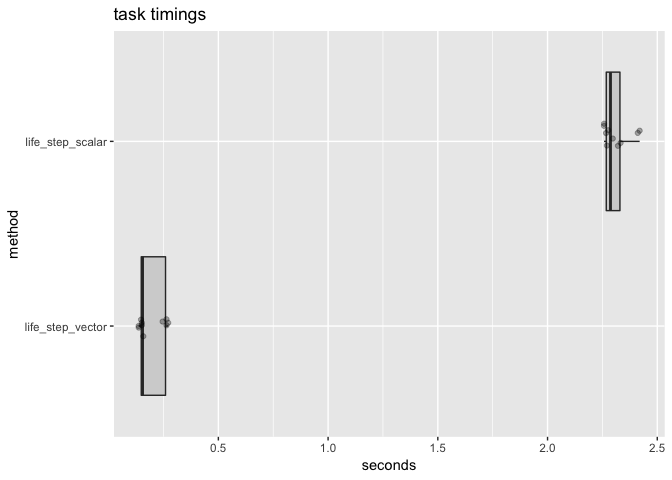
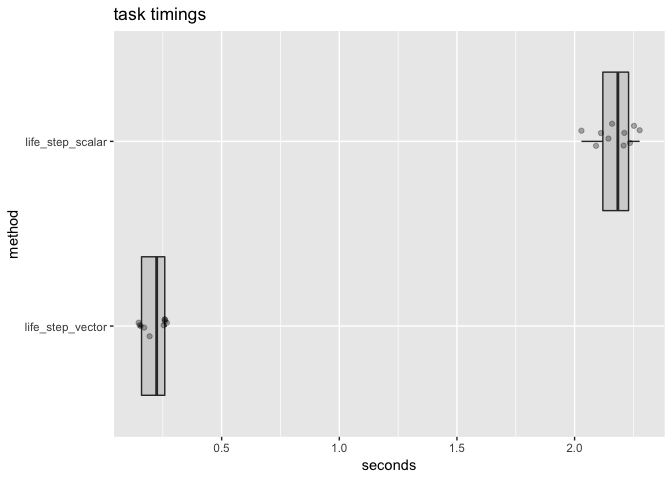
re-run

diff --git a/extras/ConwayLife/Timing.md b/extras/ConwayLife/Timing.md
@@ -37,7 +37,7 @@ life_step_scalar <- function(d) {
           pop <- pop + d[i+1, j+1]
         }
       }
-      dnext[i,j] <- (pop==3) || (d[i,j] & (pop>=2) & (pop<=3))
+      dnext[i,j] <- (pop==3) || (d[i,j] && (pop>=2) && (pop<=3))
     }
   }
   dnext
@@ -69,12 +69,12 @@ print(timing)
 ```
 
     ## Unit: milliseconds
-    ##              expr      min        lq     mean   median        uq       max
-    ##  life_step_scalar 2257.312 2266.5480 2311.046 2286.811 2332.8665 2419.6727
-    ##  life_step_vector  136.705  147.7335  192.692  154.561  263.6966  271.3468
-    ##  neval cld
-    ##     10   b
-    ##     10  a
+    ##              expr       min        lq      mean    median        uq
+    ##  life_step_scalar 2029.0125 2112.1260 2171.9502 2183.8286 2235.2899
+    ##  life_step_vector  147.1402  155.6901  211.5314  223.8249  258.3808
+    ##        max neval cld
+    ##  2276.4587    10   b
+    ##   267.0621    10  a
 
 ``` r
 tm <- data.frame(timing)
